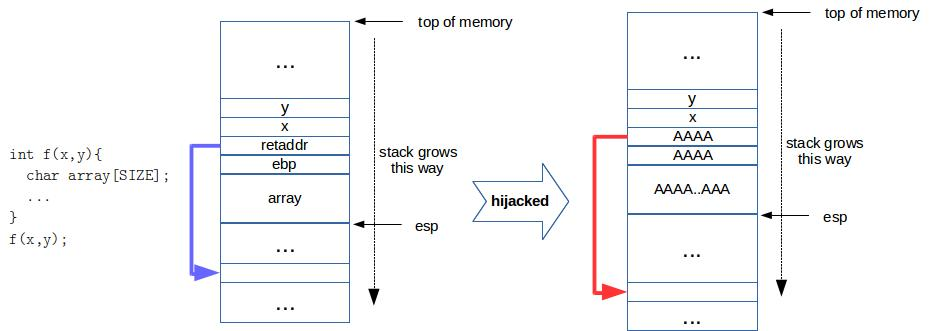
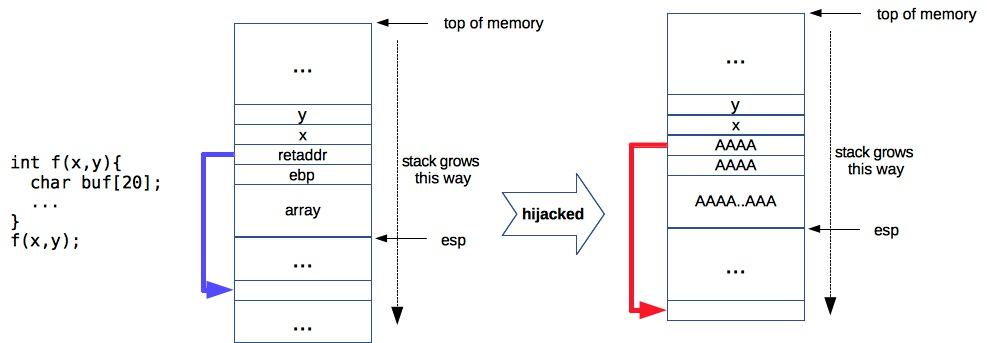
Memvul

diff --git a/_posts/2016-08-02-memvul.md b/_posts/2016-08-02-memvul.md
@@ -4,7 +4,7 @@ title: Evolution of Memory Vulnerabilities
 ---
 
 Computer security has established itself as a major, active and hugely impactful field of computer science. Its engine
-is driven largely by perpetual arm races between attacks and defenses, between breaking stuff and patching stuff. Helped
+is driven largely by a perpetual arm race between attacks and defenses, between breaking stuff and patching stuff. Helped
 by disproportionate media interest and sometimes biased narratives, security comes off as a fear factor, as something to
 be pessimistic about. It is true that the defense guys do not always take the spotlights, that only secure systems are
 ones that do nothing and thus being useless. Nevertheless, computer security is an art, and portraying their principals
@@ -35,10 +35,11 @@ themselves as secure as they are given their complexity.
 
 ## Preventing corruption vs. exploitation 
 Attacks based on memory vulnerabilities have two critical ingredients: the vulnerabilities themselves, and the
-exploits. Finding vulnerabilities is essential looking for places where memory can be corrupted, which could
-be as simple as going through the source code. Crafting and launching the corresponding exploits often require
-more craftmanship. Defenders use this division to gear their strategies, either to nip attacks at their buds
-by ensuring memory safety, or by making exploits more difficult if not impossible.  
+exploits. Vulnerabilities are the way in, allowing attackers to hijack the programs' control flows. To search for 
+vulnerabilities, attackers often look for places where memory can be corrupted, which could be as simple as going
+through the source code. Crafting and launching the corresponding exploits often require more craftsmanship. Defenders
+use this division to gear their strategies, either to nip attacks at their buds by ensuring memory safety, or by making
+exploits more difficult if not impossible.  
 
 <style>
 table{
@@ -71,7 +72,8 @@ td{
 Running processes use stack for function calls. In Figure 1, calling <code> f(x,y) </code> comprises a number
 of steps:
 
-1. Push arguments to the stack: <code> push y, push x </code>
+1. Push arguments to the stack: <code> push y, push x </code> (Though on AMD64 ABI, first 6 arguments are saved
+in registers <code>rdi, rsi, rdx, ..</code>
 2. Push current instruction pointer to the stack: <code> push eip </code>
 3. Push the current frame pointer to the stack, and set frame pointer to be the current stack pointer. <code>
 push ebp;  mov esp, ebp </code>. Frame pointer is an optimization to quickly retrieve function arguments. 
@@ -80,6 +82,17 @@ push ebp;  mov esp, ebp </code>. Frame pointer is an optimization to quickly ret
 instruction. And pointing the stack pointer to saved <code> ebp </code> effectively popping the entire stack
 frame. 
 
+![overflow](../images/gdbstack.jpg)
+
+*Figure 2. Overflow example using function (Figure 1) on AMD64 ABI.*
+
+Figure 2 shows a real stack layout using GDB. The code was compiled on a x86-64 machine, therefore:
+
++ Arguments are not pushed on the stack, but instead are saved on registers rdi, rsi which are later pushed on the
+stack prior to calling another function. 
++ Arrays are 16-byte aligned. And so are stack frame. Thus 32 bytes after saved <code> rip, rbp </code> are allocated to
+<code>buf</code>. 
+
 Nearly every work on stack overflows cite a classic paper in the late 90s describing the very first exploit
 [1]. The basic technique is to write to local function variables beyond their limit thus to overwrite saved
 return IP (<code>retaddr</code>). When the function returns, control is passed to a different address than
@@ -87,8 +100,14 @@ originally intended, thus the name _control hijacking_. In Figure 1, this is don
 <code>SIZE+8</code> bytes (on 32-bit machines) on to <code>array</code>, where
 <code>[[SIZE+4]..[SIZE+8])</code> byte is a new address under the attacker's control. 
 
+In our example (Figure 2), <code>buf</code> is pushed on the stack at address <code>0x7fffffffdf20</code> (there are
+also 12 bytes of padding at the end). After copying 53 <code>A</code> characters, both the save <code>rbp</code> and
+<code>rip</code> are overflowed with <code>A</code>. Running this inevitably leads to <code>Segmentation fault</code>.
+
+### Exploiting it. 
 Exploiting this corruption, back in late 90s, is done by writing attacking (or exploit) payloads --- often
-spawns a shell --- to the stack itself and pointing the new return address there. Two subtle challenges are:
+spawns a shell --- to the stack itself and pointing the new return address there. To accomplish this, attackers have to
+solve two subtle challenges:
 
 + When the buffer is large enough to contain exploit code, one challenge is to work out the exact address to
 point the corrupted <code>retaddr</code> to. Guessing is the best strategy here, helped by prepending
@@ -105,22 +124,27 @@ the hardware community was quick to propose a countermeasure.
 
 **Countermeasure 1: memory can be either writable or executable, but not both.** Referred to as **NX**, it
 essentially is a bit checked by CPUs before executing or writing to a memory address. When set properly by
-compilers, this bit eliminates a wide channel for delivering exploits: it forbids attackers from running their
+compilers, this bit eliminates a significant channel for exploit delivery: it forbids attackers from running their
 own codes on the corrupted servers.
 
 Another observation of the above's exploit is that corruption to values on the stacks go unnoticed: CPUs would
 treat <code>AAAA</code> as any other valid return address. Programming language community was quick to come up
 with a solution. 
 
-![Canary](../images/canary.jpg)
-
-*Figure 2. Stack canaries*
+![Canary](../images/canary.jpg) 
+*Figure 3. Stack canaries*
 
 **Countermeasure 2: protect return address integrity by canaries.** In function prologue (containing
 instructions executed after <code>call</code>), compilers would push canaries (random, secret values) on the
 stack right after pushing the return address. In function epilogue (instructions executed before
-<code>ret</code>), compilers would check if canaries are correct. Figure 2 illustrates a poor-man solution to
-return address integrity. 
+<code>ret</code>), compilers would check if canaries are correct. Figure 3 illustrates a poor-man solution to
+return address integrity. Stack canaries are enabled by default on <code>g++</code> (at least for 4.8.4 version). When
+running <code>f</code>, its stack content looks the same as without canaries. However, the code section of
+<code>f</code> now contains additional instructions:
+
++ Canary value is stored on <code>%fx:0x28</code> (a thread local storage), and pushed on the stack after
+<code>rbp</code>. Its value is set to current <code>%rax</cdoe> value: <code>4195809</code>.
++ Canary is checked for integrity before returning. Failing this, an error is raised. 
 
 Countermeasure 1 and 2 are examples of exploit prevention, but they are essentially dealing with symptoms. To
 remove the causes, it is clear that memory safety mechanism is in need to eliminate any chance of memory
